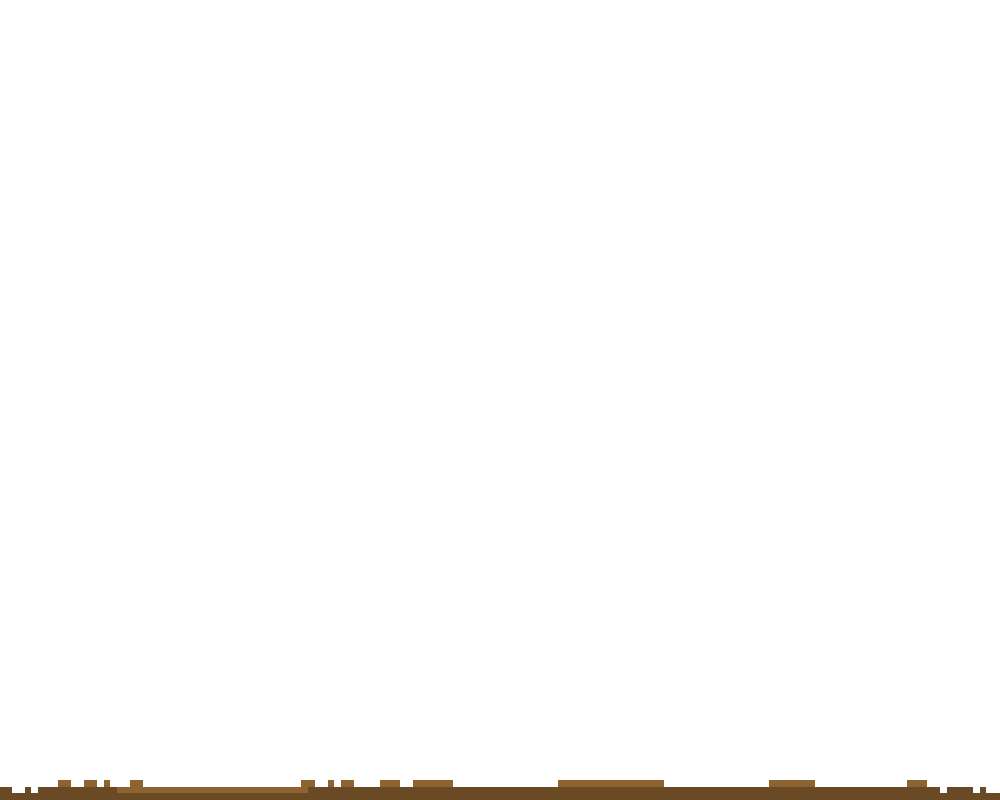
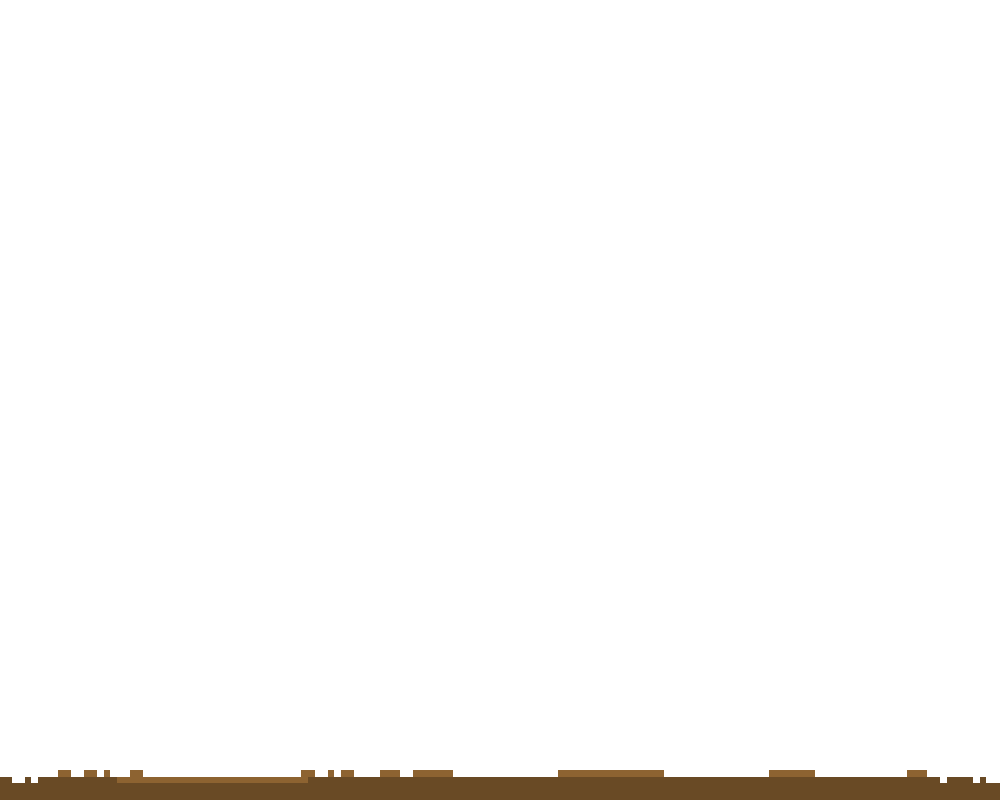
cambios de colores, agrego elementos al fondo, full responsive

Changed region(s): [[0.0, 0.9375, 1.0, 1.0]]

diff --git a/scripts.js b/scripts.js
@@ -14,7 +14,12 @@ const backgroundLayer3 = new Image();
 backgroundLayer3.src = "layer-3.png";
 const backgroundLayer4 = new Image();
 backgroundLayer4.src = "layer-4.png";
-
+const backgroundLayer5 = new Image();
+backgroundLayer5.src = "layer-7.png";
+const backgroundLayer6 = new Image();
+backgroundLayer6.src = "layer-8.png";
+const backgroundLayer7 = new Image();
+backgroundLayer7.src = "layer-5.png";
 // cargamos el monkuro
 
 const monkuro = new Image();
@@ -55,12 +60,15 @@ class Layer {
     ctx.drawImage(this.image, this.x2, this.y, this.width, this.height);
   }
 }
-const layer1 = new Layer(backgroundLayer1, 0.2);
+const layer1 = new Layer(backgroundLayer1, 0.3);
 const layer2 = new Layer(backgroundLayer2, 0.4);
 const layer3 = new Layer(backgroundLayer3, 0.5);
-const layer4 = new Layer(backgroundLayer4, 0.6);
+const layer4 = new Layer(backgroundLayer4, 0.4);
+const layer5 = new Layer(backgroundLayer5, 0.3);
+const layer6 = new Layer(backgroundLayer6, 0.2);
+const layer7 = new Layer(backgroundLayer7, 0.8);
 
-const gameObjects = [layer4, layer1, layer3, layer2]; // ese es el orden en el que quedan bien, corregir nombre de archivos
+const gameObjects = [layer6, layer5, layer4, layer7, layer3, layer2]; // ese es el orden en el que quedan bien, corregir nombre de archivos
 
 function animate() {
   ctx.clearRect(0, 0, CANVAS_WIDTH, CANVAS_HEIGHT);
@@ -87,6 +95,10 @@ function animate() {
       frameX = 0;
     }
   }
+
+  // este va acá porque tapa al monkuro
+  layer1.update();
+  layer1.draw();
 
   gameFrame++;
 

diff --git a/styles.css b/styles.css
@@ -1,22 +1,27 @@
 body {
-  background: black;
   margin: 0;
   padding: 0;
 }
 
 #canvas1 {
   position: absolute;
-  border: 3px solid white;
-  width: 1000px;
-  height: 800px;
+  border: none;
+  width: 100%;
+  height: 100vh;
   transform: translate(-50%, -50%);
   top: 50%;
   left: 50%;
-}
+  background: rgb(213,147,71);
+  background: linear-gradient(0deg, rgba(213,147,71,1) 0%, rgba(190,209,223,1) 100%);
+}  
 
-@media only screen and (max-width: 600px) {
+/*@media only screen and (max-width: 600px) {
   #canvas1 {
     width: 85%;
     height: 80vh;
   }
+}
+
+canvas {
+  aspect-ratio: auto 1000 / 600;
 }
